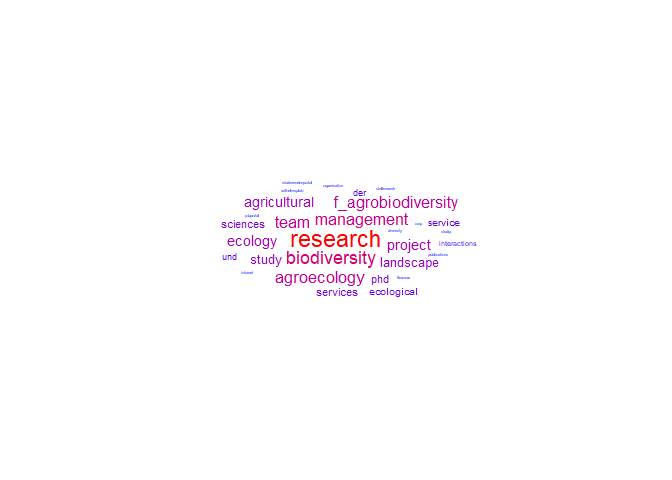
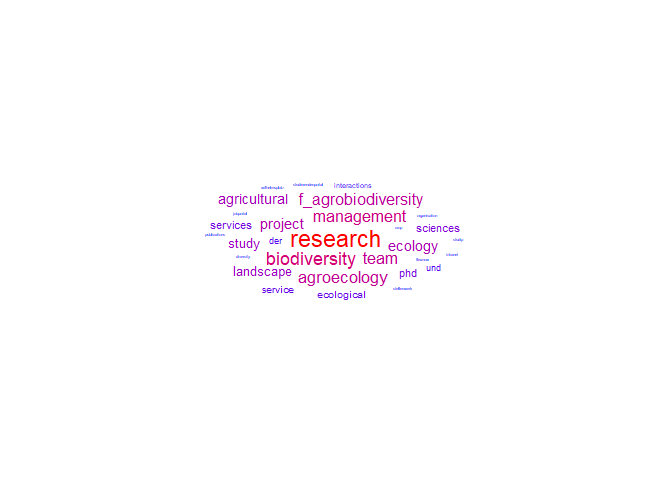
bigger font size in figures

Changed region(s): [[0.3125, 0.375, 0.7188, 0.625]]

diff --git a/script/Workshop_TextAnalysis4Ecology.md b/script/Workshop_TextAnalysis4Ecology.md
@@ -2,7 +2,7 @@
 <img src="images/logoAF.jpg" />
 
 Elena Velado-Alonso
-11/03/2025
+12/03/2025
 
 - [<span class="toc-section-number">1</span> Text analysis with R:
   useful examples for
@@ -153,10 +153,10 @@ noquote(scientist)
     [1] Erika Mustermann
 
 ``` r
-cat(letters, sep = "_") 
+cat(letters, sep = "-") 
 ```
 
-    a_b_c_d_e_f_g_h_i_j_k_l_m_n_o_p_q_r_s_t_u_v_w_x_y_z
+    a-b-c-d-e-f-g-h-i-j-k-l-m-n-o-p-q-r-s-t-u-v-w-x-y-z
 
 You can count the number of elements in a string object with `length()`
 function.`nchar()` function gives the number of characters in a string.
@@ -207,10 +207,10 @@ chartr(old = "Funktional AgrobiodÑversity & Agroecology", new = "Functional Agr
 To extract parts of a string, `substr()` function can be used.
 
 ``` r
-substr(x, start = 1, stop = 5)
+substr(x, start = 1, stop = 10)
 ```
 
-    [1] "Funkt"
+    [1] "Funktional"
 
 ``` r
 substr(x, start = 18, stop = 23)
@@ -281,7 +281,7 @@ difficulties we encounter when working with characters in base R. Some
 features of the ‘tidy’ packages simplify working with regular
 expressions, as we will see below.
 
-To modify the content of a string,`sub()` and `gsub()` functions can be
+To modify the content of a string, `sub()` and `gsub()` functions can be
 used. The `sub()` function replaces the first occurrence of a pattern in
 a string, while `gsub()` replaces all occurrences of a pattern in a
 string. For example:
@@ -455,27 +455,27 @@ str_to_lower(scientist) #== tolower()
     [1] "erika mustermann"
 
 ``` r
-text <- "Hallo Functional Agrobiodiversity & Agroecology Group"
-text
+hello <- "Hallo Functional Agrobiodiversity & Agroecology Group"
+hello
 ```
 
     [1] "Hallo Functional Agrobiodiversity & Agroecology Group"
 
 ``` r
-new_text <- str_replace(text, "Functional Agrobiodiversity & Agroecology Group", "FA&A ")
-new_text
+new_hello <- str_replace(hello, "Functional Agrobiodiversity & Agroecology Group", "FA&A ")
+new_hello
 ```
 
     [1] "Hallo FA&A "
 
 ``` r
-str_trim(new_text) #removes whitespaces
+str_trim(new_hello) #removes whitespaces
 ```
 
     [1] "Hallo FA&A"
 
 ``` r
-str_split(new_text, "") #split characteres
+str_split(new_hello, "") #split characteres
 ```
 
     [[1]]
@@ -1101,7 +1101,7 @@ web_texts_df |>
   filter(!word %in% c("göttingen", "university", "georgaugustuniversität", 
                       "ecampus", "dr", "tel", "germany", "pm", "media")) |>
   filter(countWords > 15) |>
-  ggplot( aes(label = word, size = countWords, colour = countWords)) +
+  ggplot( aes(label = word, size = countWords*20, colour = countWords)) +
   geom_text_wordcloud() +
   scale_color_gradient(low = "blue", high = "red") +
   theme_minimal()
